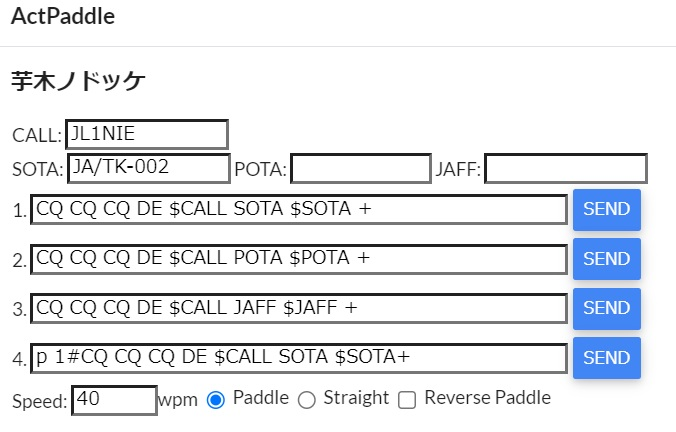
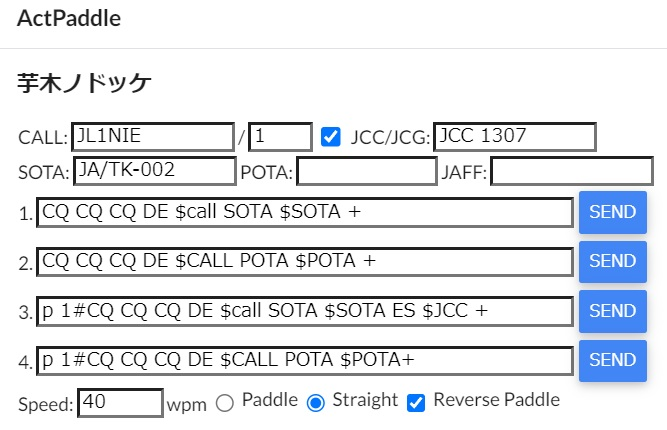
Fix paddle dialog description.

Changed region(s): [[0.0, 0.2721, 0.9895, 0.9977], [0.0, 0.1512, 0.2399, 0.2116], [0.0, 0.0, 0.1799, 0.0605]]

diff --git a/README.md b/README.md
@@ -88,9 +88,25 @@ myACTでアクティベーション先をクリックすると下にメモアイ
 
 ![パドルダイアログ](images/paddle-dialog.jpg "パドルダイアログ")
 
-コールサインを入力し、キーヤーに書き込みたいメッセージを各欄に入力します。メッセージ中の`$CALL` `$SOTA` `$POTA` `$JAFF`の部分は入力したコールサインやリファレンス番号に置き換えられます。またリファレンス番号中のハイフンは送出時には省略されます。
+コールサインを入力し、キーヤーに書き込みたいメッセージを各欄に入力します。メッセージ中の`$`で始まる変数は以下のように書き換えられます。
 
-また特殊符号として以下のものがあります。
+|変数 | 置き換えられる文字　|
+|:--|:--|
+|`$CALL` |CALL欄 (チェックを入れるエリアも入ります)|
+|`$JCC`  |JCC/JCG欄 (地図位置から自動入力)|
+|`$JCG`  |JCC/JCG欄 (地図位置から自動入力)|
+|`$SOTA` |SOTA欄 (地図位置から自動入力)|
+|`$POTA` |POTA欄 (地図位置から自動入力)|
+|`$JAFF` |JAFF欄 (地図位置から自動入力)|
+
+尚、リファレンス番号中のハイフンは送出時には省略されます。
+
+アクティベーション位置が判明している場合は地図上でその点をクリックすると位置情報からすべての情報が自動入力されます。
+
+![詳細な場所指定](images/act-dialog2.jpg "詳細位置の指定")
+![詳細位置のパドルダイアログ](images/paddle-dialog2.jpg "詳細位置のパドルダイアログ")
+
+その他、特殊符号として以下のものがあります。
 
 |記号 | 符号　|
 |:--|:--|
